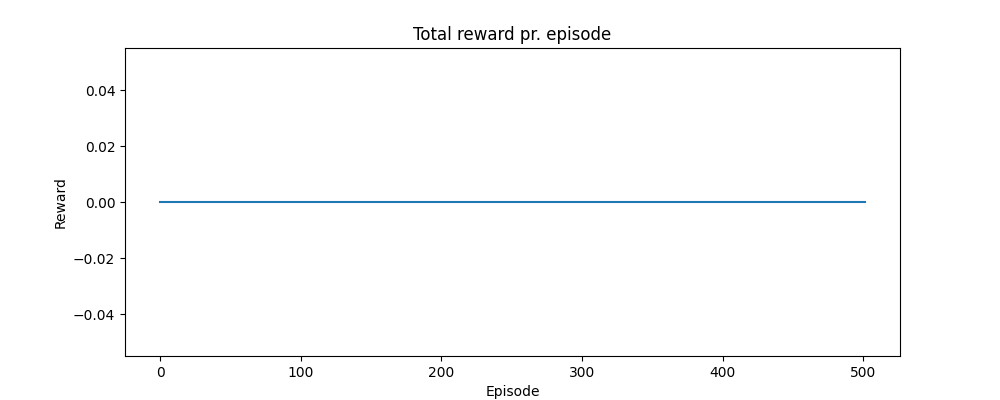
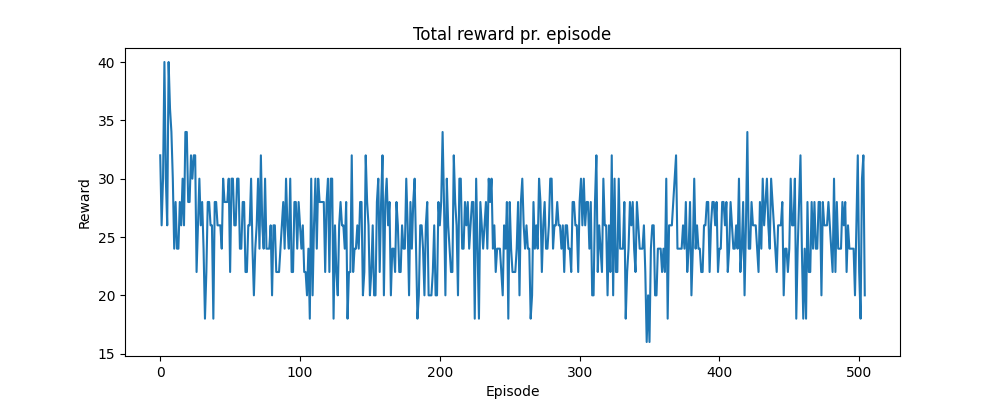
fredag

diff --git a/agent/policy_agent.py b/agent/policy_agent.py
@@ -38,7 +38,7 @@ class PolicyNetwork(nn.Module):
 # Agenten interagerer med miljøet og bruger PolicyNetwork til at vælge handlinger
 # Den gemmer også transitions (state, action, reward) for at kunne opdatere policy'en senere
 class PolicyAgent:
-    def __init__(self, state_size, action_size, lr=0.005):
+    def __init__(self, state_size, action_size, lr=0.001):
         # Initialisering af agentens parametre og netværk
         self.state_size = state_size
         self.action_size = action_size
@@ -47,7 +47,7 @@ class PolicyAgent:
         # Optimizer til gradient descent
         self.optimizer = optim.Adam(self.policy_net.parameters(), lr=lr)
         
-        # Diskonteringsfaktor for fremtidige belønninger
+        # Diskonteringsfaktor for fremtidige belønninger -- jeg har valgt en høj gamma hvor fremtidige belønninger tæller meget
         self.gamma = 0.99
 
         # Lager for transitions
@@ -66,24 +66,40 @@ class PolicyAgent:
         self.epsilon_decay = 0.995  # Hvor hurtigt exploration falder
 
     # === Vælg handling baseret på nuværende state ===
-    # Agenten modtager state fra miljøet, beregner sandsynlighederne for hver handling
-    # og vælger en handling baseret på en stokastisk prøve
     def get_action(self, state):
         # Konverterer til PyTorch tensor
         state = torch.FloatTensor(state).unsqueeze(0)
+
+        # Kør forudsigelse gennem policy-netværket
         probs = self.policy_net(state)
 
+        # === Debugging for NaN, Inf og ikke-finite værdier ===
+        if torch.isnan(probs).any() or torch.isinf(probs).any() or not torch.isfinite(probs).all():
+            print("[FEJL] probs havde ugyldige værdier. Fallback til ens sandsynligheder.")
+            total_length = probs.size(1)
+            
+            if total_length == 0:
+                total_length = 1
+            
+            probs = torch.ones((1, total_length)) / total_length
+
+        # Normaliser værdierne, hvis de ikke summer til 1
+        probs = probs / probs.sum(dim=1, keepdim=True)
+
+        # Opdel sandsynlighederne
+        tone_probs = probs[:, :len(FULL_RANGE)]
+        rhythm_probs = probs[:, len(FULL_RANGE):]
+
         # === Valider dimensioner ===
-        total_length = len(FULL_RANGE) + len(RHYTHM_VALUES)
-        if probs.size(1) != total_length:
-            print(f"[FEJL] Dimensionen af policy-netværkets output ({probs.size(1)}) matcher ikke forventet længde ({total_length})!")
-            print("Fallback til ens sandsynligheder.")
+        if tone_probs.size(1) != len(FULL_RANGE) or rhythm_probs.size(1) != len(RHYTHM_VALUES):
+            print(f"[FEJL] Dimensionen af tone_probs eller rhythm_probs er forkert!")
+            print(f"Størrelse af tone_probs: {tone_probs.size()} - Forventet: {len(FULL_RANGE)}")
+            print(f"Størrelse af rhythm_probs: {rhythm_probs.size()} - Forventet: {len(RHYTHM_VALUES)}")
+
+            # Fallback igen til ens fordeling
             tone_probs = torch.ones((1, len(FULL_RANGE))) / len(FULL_RANGE)
             rhythm_probs = torch.ones((1, len(RHYTHM_VALUES))) / len(RHYTHM_VALUES)
-        else:
-            tone_probs = probs[:, :len(FULL_RANGE)]   # Toner
-            rhythm_probs = probs[:, len(FULL_RANGE):]  # Rytmer
-        
+
         # Sample handlinger baseret på sandsynlighederne
         try:
             tone_dist = torch.distributions.Categorical(tone_probs)
@@ -95,52 +111,44 @@ class PolicyAgent:
             tone_action = 0
             rhythm_action = 0
 
-        # Exploration vs. exploitation med epsilon-decay
-        self.epsilon = max(self.epsilon * self.epsilon_decay, self.epsilon_min)
-
-        # Gem logs til analyse
-        self.tone_log.append(tone_action)
-        self.rhythm_log.append(rhythm_action)
-        self.prob_log.append((tone_probs.squeeze(0).detach().numpy(), rhythm_probs.squeeze(0).detach().numpy()))
-
         # === Logging af handlinger ===
-        print(f"Valgt tone: {tone_action}, Valgt rytme: {rhythm_action} ({RHYTHM_VALUES[rhythm_action]})")
+        # print(f"Valgt tone: {tone_action}, Valgt rytme: {rhythm_action} ({RHYTHM_VALUES[rhythm_action]})")
 
         return tone_action, rhythm_action
 
+
+    # === Metode til at nulstille vægte, hvis der er NaN eller Inf ===
+    def _weight_reset(self, layer):
+        if isinstance(layer, nn.Linear):
+            layer.reset_parameters()
+
     # === Gem overgang (transition) ===
-    # Hver overgang (state, action, reward) gemmes til senere brug i policy-opdateringen
     def store_transition(self, state, action, reward):
         """Gemmer transitionen til opdatering af policy"""
-        if state is None or action is None or reward is None:
-            print("[FEJL] En af parametrene til 'store_transition' er None.")
-        else:
+        if state is not None and action is not None and reward is not None:
             self.states.append(state)
             self.actions.append(action)
             self.rewards.append(reward)
 
     # === Opdater policy-netværket ===
-    # Denne metode opdaterer agentens netværk baseret på de gemte transitions
     def update(self):
         R = 0
         returns = []
 
-        # Gå baglæns gennem rewards og beregn diskonteret reward
+        # Beregn diskonteret reward
         for reward in reversed(self.rewards):
             R = reward + self.gamma * R
             returns.insert(0, R)
 
-        # Normaliserer returns for at stabilisere træningen
         returns = torch.tensor(returns)
         returns = (returns - returns.mean()) / (returns.std() + 1e-5)
 
-        # Konverter lister til tensorer
-        states = torch.FloatTensor(np.array(self.states))
+        states = torch.FloatTensor(self.states)
         tone_actions, rhythm_actions = zip(*self.actions)
         tone_actions = torch.LongTensor(tone_actions)
         rhythm_actions = torch.LongTensor(rhythm_actions)
 
-        # Kør states gennem policy-netværket og beregn policy gradient
+        # Kør states gennem policy-netværket
         probs = self.policy_net(states)
         tone_probs = probs[:, :len(FULL_RANGE)]
         rhythm_probs = probs[:, len(FULL_RANGE):]
@@ -152,11 +160,11 @@ class PolicyAgent:
         tone_log_probs = tone_dist.log_prob(tone_actions)
         rhythm_log_probs = rhythm_dist.log_prob(rhythm_actions)
 
-        # Loss-funktion for policy gradient
+        # Policy gradient loss
         loss = -(tone_log_probs + rhythm_log_probs) * returns
         loss = loss.mean()
 
-        # Optimering af netværket
+        # Optimering
         self.optimizer.zero_grad()
         loss.backward()
         self.optimizer.step()

diff --git a/kopi.py b/kopi.py
@@ -1,4 +1,4 @@
-import gym
+""import gym
 import numpy as np
 from gym import spaces
 import sys
@@ -26,7 +26,7 @@ class MelodyEnv(gym.Env):
         self.min_note = 60                   # Minimum MIDI-tone
         self.max_note = 90                   # Maksimum MIDI-tone
         self.reference_melody = reference_melody
-        self.reference_intervals = extract_intervals_from_midi("data/input_midi/Piano_chopin.mid")[:self.max_length - 1]
+        self.reference_intervals = extract_intervals_from_midi("data/input_midi/Piano_chopin.MID")[:self.max_length - 1]
 
         # Action space udvidet til både tone og rytme
         self.action_space = spaces.MultiDiscrete([
@@ -52,14 +52,10 @@ class MelodyEnv(gym.Env):
         # Opdel handling i tone og rytme
         tone_action, rhythm_action = action
         
-        # === Sikring af at actions er inden for gyldigt interval ===
+        # === Sikring af at rhythm_action er inden for gyldigt interval ===
         if not (0 <= rhythm_action < len(RHYTHM_VALUES)):
             print(f"[ADVARSEL] rhythm_action {rhythm_action} er uden for intervallet. Sætter til standardværdi 0.")
             rhythm_action = 0
-        
-        if not (0 <= tone_action < len(FULL_RANGE)):
-            print(f"[ADVARSEL] tone_action {tone_action} er uden for intervallet. Sætter til standardværdi 0.")
-            tone_action = 0
         
         # Konverter handling til en faktisk MIDI-tone og rytme
         note = self.min_note + tone_action
@@ -72,12 +68,13 @@ class MelodyEnv(gym.Env):
         lower_bound = max(self.min_note, current_note - 3)
         upper_bound = min(self.max_note, current_note + 3)
 
+        # Hvis tonen er uden for grænsen, justeres den
         if note < lower_bound:
             note = lower_bound
         elif note > upper_bound:
             note = upper_bound
 
-        # Blacklist system for gentagelser
+        # === Blacklist system for gentagelser ===
         if len(self.melody) > 0 and note == self.melody[-1][0]:
             possible_notes = [n for n in range(lower_bound, upper_bound + 1) if n != self.melody[-1][0]]
             if possible_notes:
@@ -85,21 +82,45 @@ class MelodyEnv(gym.Env):
 
         reward = 0
 
-        # Belønning for korrekt rytme
-        if len(self.reference_melody) > len(self.melody):
-            ref_tone, ref_rhythm = self.reference_melody[len(self.melody)]
-            if rhythm == ref_rhythm:
-                reward += 2.0
+        # === STRAF: Undgå store spring først ===
+        if self.melody:
+            jump = abs(note - self.melody[-1][0])
+            if 5 <= jump < 8:
+                reward -= 5.0  # Øget straf for mellemstore spring
+            elif 8 <= jump < 12:
+                reward -= 10.0 # Øget straf for store spring
+            elif jump >= 12:
+                reward -= 15.0 # Øget straf for meget store spring
 
+        # Straf for gentagne store spring
+        if len(self.melody) >= 3:
+            interval_1 = abs(self.melody[-1][0] - self.melody[-2][0])
+            interval_2 = abs(self.melody[-2][0] - self.melody[-3][0])
+            if interval_1 > 4 and interval_2 > 4:
+                reward -= 5.0  # Ekstra straf for gentagne store spring
 
         # Straf for gentagelser af samme tone
         if len(self.melody) > 3 and note == self.melody[-1][0]:
             reward -= 5.0
-
-        # Belønning for variation
-        # Belønning for variation
-        if len(self.melody) > 5 and all(note != n[0] for n in self.melody[-5:]):
+        
+        # === BELØNNINGER: Variation og flow ===
+        if len(self.melody) > 5 and note not in [n[0] for n in self.melody[-5:]]:
             reward += 2.0
+
+        if len(self.melody) >= 3:
+            last_three = [n[0] for n in self.melody[-3:]]
+            if last_three == sorted(last_three) or last_three == sorted(last_three, reverse=True):
+                reward += 5.0
+
+        # Beløn for små trin
+        if self.melody and abs(note - self.melody[-1][0]) in [1, 2, 3, 4]:
+            reward += 3.0
+
+        # 🔹 Belønning for 4 sammenhængende små trin
+        if len(self.melody) >= 4:
+            last_four_steps = [abs(self.melody[i][0] - self.melody[i-1][0]) for i in range(-3, 0)]
+            if all(step in [1, 2] for step in last_four_steps):
+                reward += 5.0
 
         # Tilføj tonen og rytmen til melodien
         self.melody.append((note, rhythm))
@@ -115,14 +136,4 @@ class MelodyEnv(gym.Env):
         full_state = np.concatenate((obs, obs_intervals))
 
         return full_state, reward, done, {}
-
-    def render(self, mode='human'):
-        """Printer den nuværende melodi og intervaller"""
-        print("Melody with Rhythm:")
-        for note, rhythm in self.melody:
-            print(f"Note: {note}, Duration: {rhythm}")
-
-    def save_to_midi(self, filename="output_pretty.mid"):
-        """Gemmer melodien som en MIDI-fil"""
-        save_melody_as_midi(self.melody, output_file=filename)
-
+""

diff --git a/main_policy.py b/main_policy.py
@@ -9,17 +9,16 @@ import os
 sys.path.append(os.path.abspath(os.path.join(os.path.dirname(__file__), '..')))
 from env.melody_env import MelodyEnv, FULL_RANGE, RHYTHM_VALUES
 
-from utils.midi_tools import save_melody_as_midi, extract_melody_from_midi
+from utils.midi_tools import save_melody_as_midi, extract_melody_from_midi, extract_melody_with_rhythm_from_midi
 from agent.policy_agent import PolicyAgent
 from plots.plot_utils import (
     plot_training_progress, plot_melody, plot_policy_rewards,
-    plot_melody_comparison, plot_octave_distribution,
-    plot_moving_average, plot_tone_histogram, plot_average_probabilities
+    plot_melody_comparison,
 )
 
 # === Indlæs reference-melodi fra MIDI ===
 # Reference-melodien bruges som mål for træningen
-reference_melody = extract_melody_from_midi('data/input_midi/Piano_chopin.mid')[:32]
+reference_melody = extract_melody_with_rhythm_from_midi('data/input_midi/Piano_chopin.mid')[:32]
 print('Reference-melodi:', reference_melody)
 
 # === Initialisér miljø og agent ===
@@ -43,12 +42,13 @@ no_improve_counter = 0
 # Gennemfører en række episoder, hvor agenten lærer at generere toner
 for episode in range(n_episodes):
     obs, _ = env.reset()
+    obs = np.nan_to_num(obs, nan=0.0, posinf=1.0, neginf=-1.0)
     done = False
     total_reward = 0
     agent.tone_log = []
     agent.rhythm_log = []
     agent.prob_log = []
-
+    
     # === Episode loop ===
     # Agenten vælger handlinger indtil episoden er færdig
     while not done:
@@ -97,12 +97,10 @@ while pygame.mixer.music.get_busy():
 print('✅ Afspilning færdig.')
 
 # === Visualisering af resultater ===
-plot_training_progress(reward_history)
-plot_melody(best_melody, title='Bedste genererede melodi', save_path='plots/melody_plot.png')
-plot_policy_rewards(reward_history, best_reward)
-plot_melody_comparison(reference_melody, best_melody, save_path='plots/melody_comparison.png')
-plot_octave_distribution(best_melody, save_path='plots/octave_distribution.png')
-plot_moving_average(avg_reward_history, window)
-plot_tone_histogram(agent.tone_log, env.action_space.nvec[0], save_path='plots/tone_histogram.png')
-plot_average_probabilities(agent.prob_log, save_path='plots/probability_distribution.png')
-""
+if len(reward_history) > 0:
+    plot_training_progress(reward_history)
+    plot_melody(best_melody, title='Bedste genererede melodi', save_path='plots/melody_plot.png')
+    plot_policy_rewards(reward_history, best_reward)
+    plot_melody_comparison(reference_melody, best_melody, save_path='plots/melody_comparison.png')
+else:
+    print("[ADVARSEL] Ingen rewards at visualisere!")

diff --git a/utils/midi_tools.py b/utils/midi_tools.py
@@ -85,4 +85,32 @@ def extract_melody_from_midi(filepath):
         melody.append(note.pitch)
 
     return melody
-""
+
+def extract_melody_with_rhythm_from_midi(filepath):
+    """
+    Ekstraherer en melodi (toner i rækkefølge) og deres tilhørende rytmer (varighed) fra en MIDI-fil.
+    
+    Parameters:
+    - filepath: Sti til MIDI-filen.
+    
+    Returnerer:
+    - En liste af tuples (tone, varighed) for hver node.
+    """
+    midi_data = pretty_midi.PrettyMIDI(filepath)
+    melody_with_rhythm = []
+
+    # Hvis der ikke er nogen instrumenter, returner en tom liste
+    if not midi_data.instruments:
+        return melody_with_rhythm
+
+    # Antag, at melodien er på det første instrument
+    instrument = midi_data.instruments[0]
+    # Sortér noderne efter starttidspunkt
+    instrument.notes.sort(key=lambda note: note.start)
+
+    # Tilføj toner og varighed til listen
+    for note in instrument.notes:
+        duration = note.end - note.start
+        melody_with_rhythm.append((note.pitch, duration))
+
+    return melody_with_rhythm
